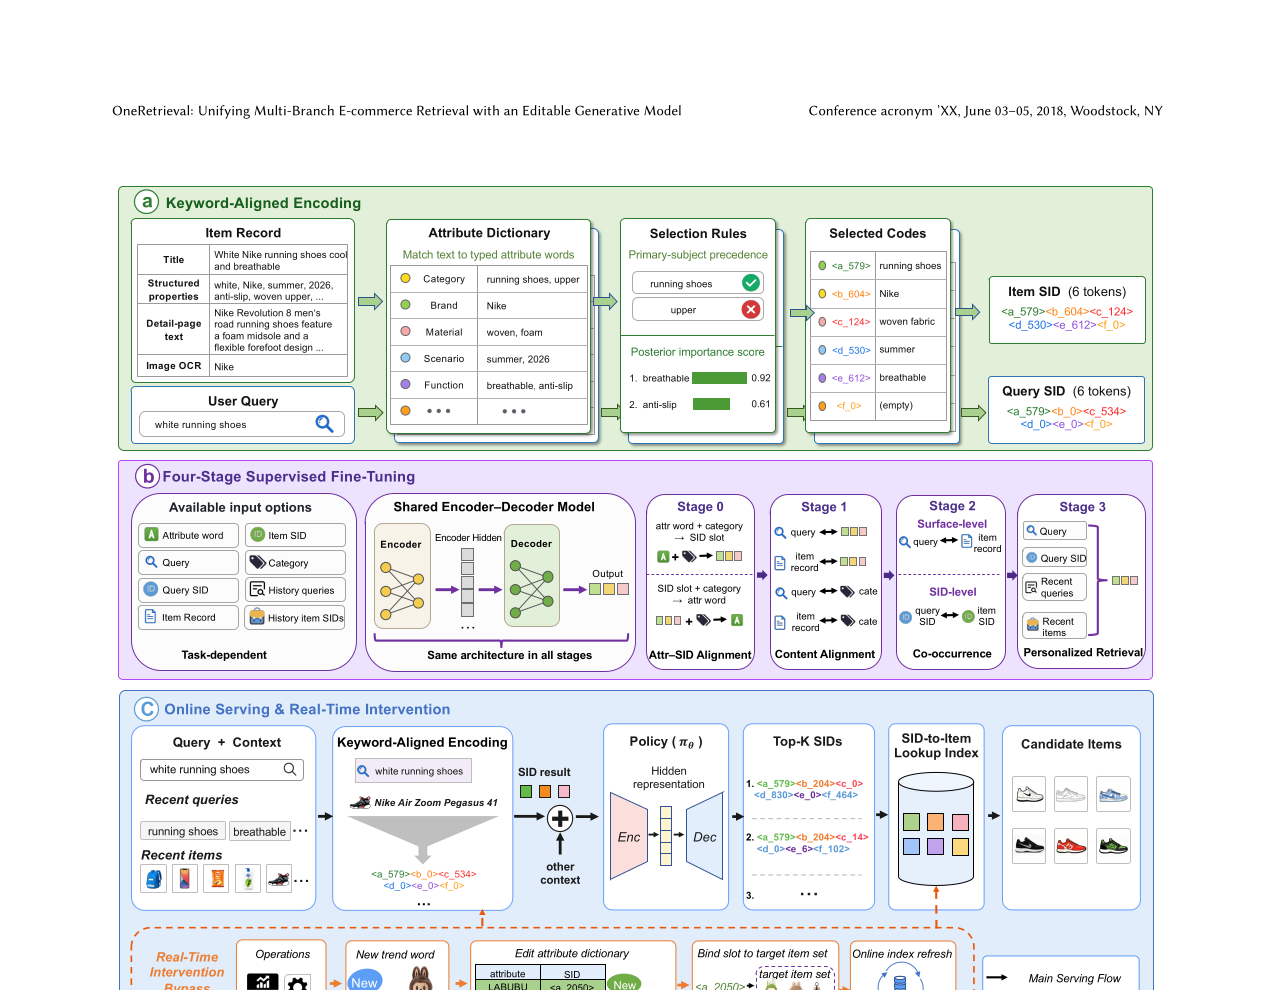
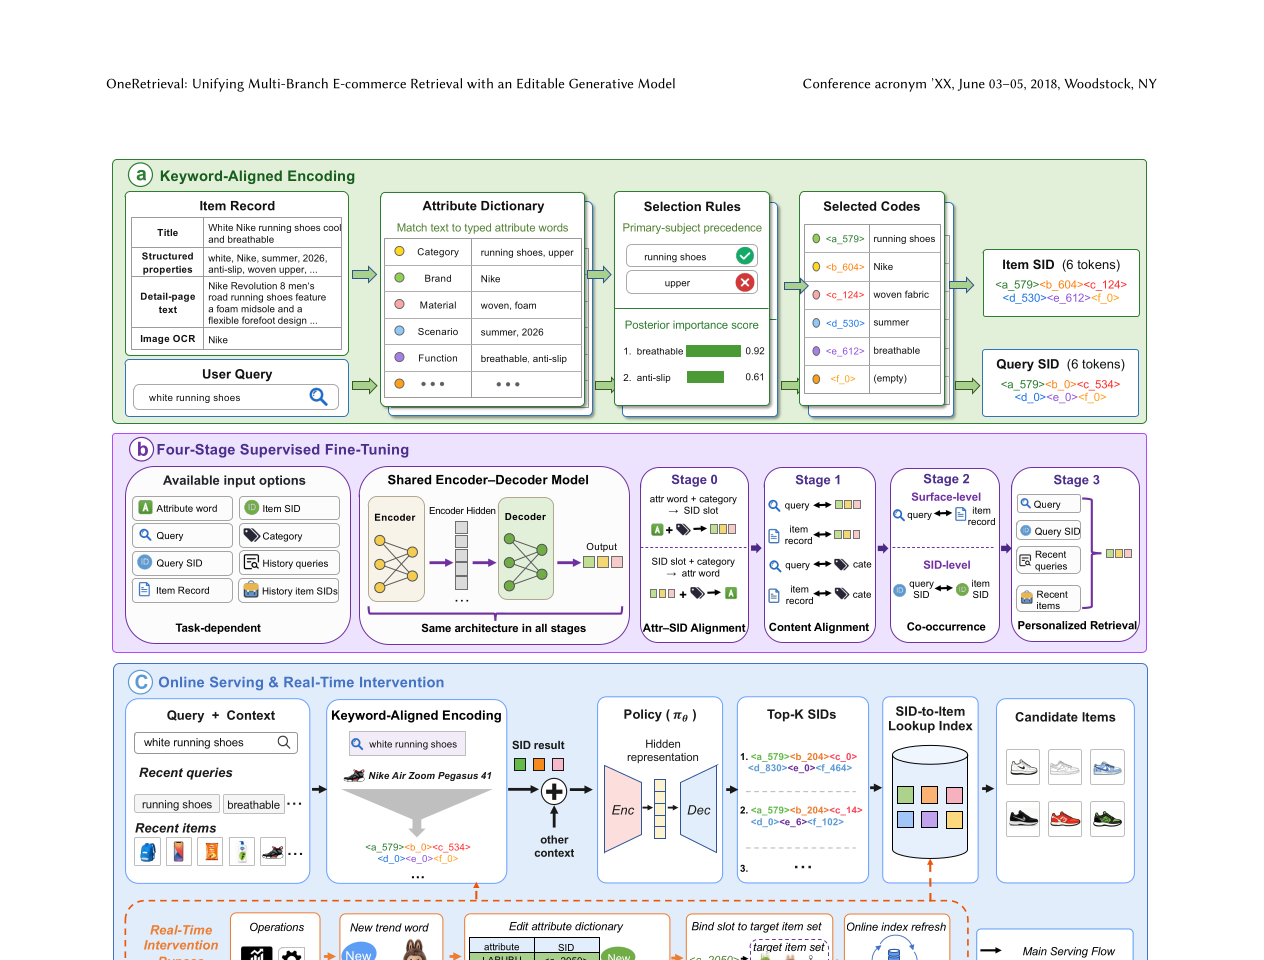
Style content tables + images (fix overflow/unstyled); tighter figure crops for OneRetrieval

Changed region(s): [[0.0617, 0.1562, 0.9256, 1.0], [0.0926, 0.0625, 0.5245, 0.125], [0.6479, 0.0625, 0.8948, 0.125]]

diff --git a/src/styles/global.css b/src/styles/global.css
@@ -736,6 +736,49 @@ details.practical li {
   color: var(--fg-muted);
   font-style: italic;
 }
+/* 表格：渲染成真正的带边框表格（之前无样式，挤成纯文本） */
+.detail .content table, .archive-detail .content table {
+  display: block;
+  width: 100%;
+  max-width: 100%;
+  overflow-x: auto;
+  border-collapse: collapse;
+  margin: 20px 0;
+  font-size: 14.5px;
+  line-height: 1.6;
+}
+.detail .content th, .archive-detail .content th,
+.detail .content td, .archive-detail .content td {
+  border: 1px solid var(--border-soft);
+  padding: 7px 11px;
+  text-align: left;
+  vertical-align: top;
+}
+.detail .content thead th, .archive-detail .content thead th {
+  background: var(--bg-soft);
+  font-weight: 700;
+  white-space: nowrap;
+}
+.detail .content tbody tr:nth-child(even), .archive-detail .content tbody tr:nth-child(even) {
+  background: color-mix(in srgb, var(--bg-soft) 50%, transparent);
+}
+/* 图片：约束宽度防越界 + 居中 + 轻边框 */
+.detail .content img, .archive-detail .content img {
+  display: block;
+  max-width: 100%;
+  height: auto;
+  margin: 18px auto;
+  border: 1px solid var(--border-soft);
+  border-radius: 8px;
+}
+/* 配图说明（alt 写在 em 里时）/ 图注 */
+.detail .content img + em, .archive-detail .content img + em {
+  display: block;
+  text-align: center;
+  font-size: 13px;
+  color: var(--fg-muted);
+  margin-top: -8px;
+}
 .detail .ext-links {
   margin-top: 36px;
   padding-top: 18px;
